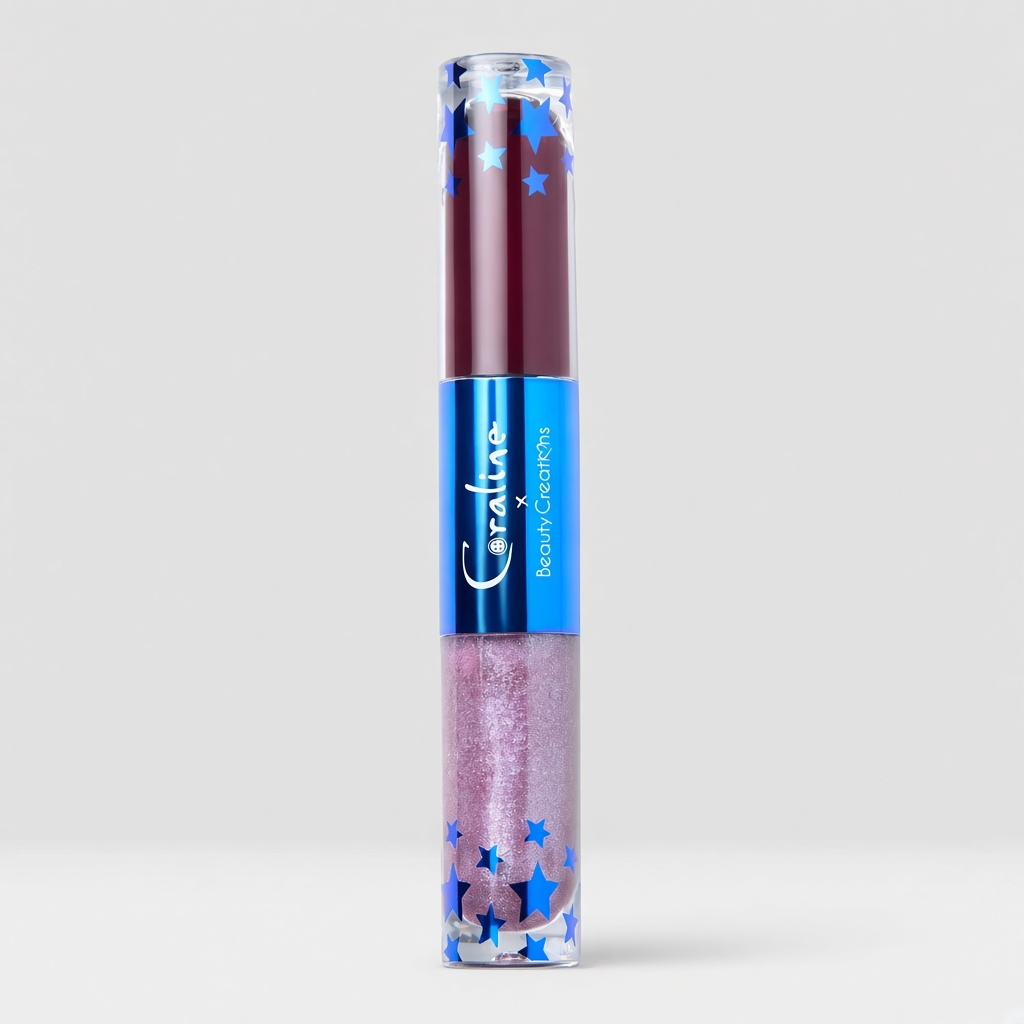
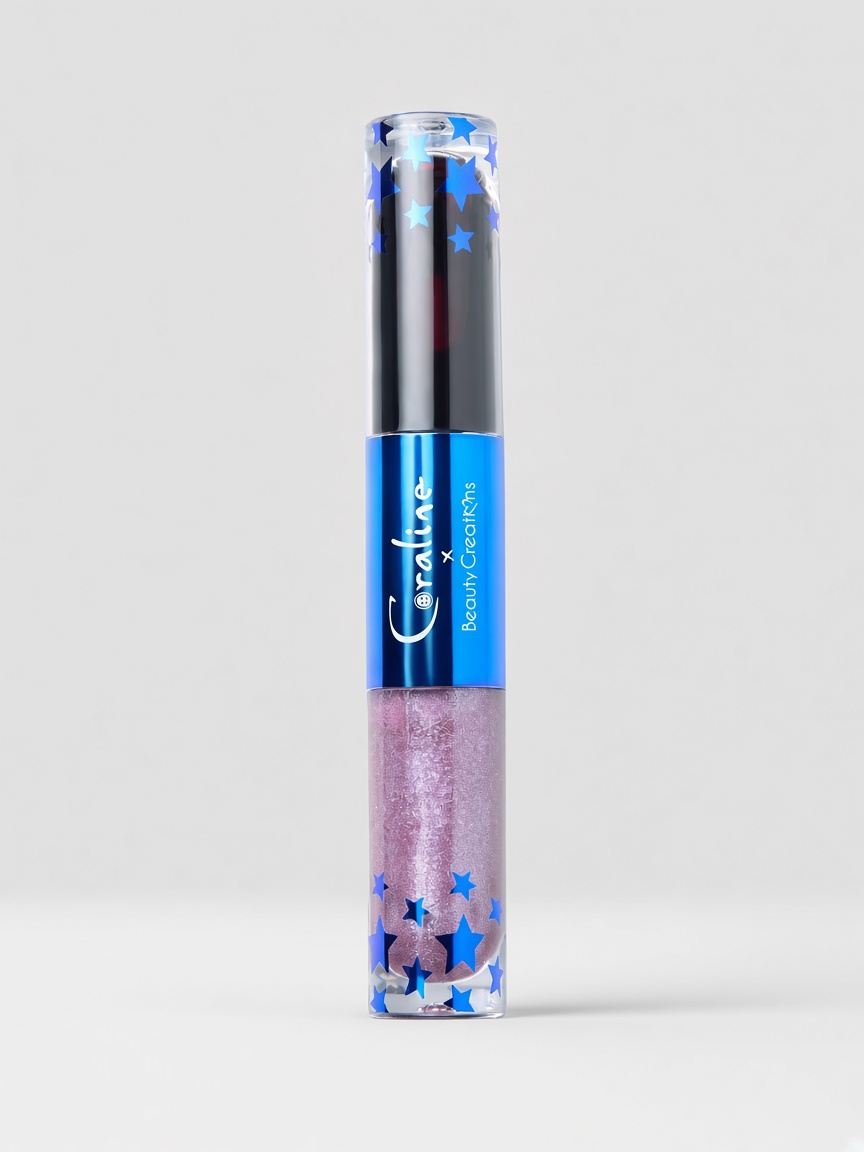
Update lip duo Panama page visuals and hero order.
Add benefit carousel photos, put packaging first in the gallery, and remove the duplicate how-to section.

Changed region(s): [[0.4062, 0.0312, 0.7812, 0.9688]]

diff --git a/peel-off-lip-duo-panama.html b/peel-off-lip-duo-panama.html
@@ -5,7 +5,7 @@
   <meta name="viewport" content="width=device-width, initial-scale=1.0">
   <title>Dúo Peel-Off Lip Stain & Lip Gloss | CompraConfio Panamá — Pago Contra Entrega</title>
   <meta name="description" content="Tinte labial peel-off y gloss de alto brillo en un solo dúo. Color en dos pasos, acabado jugoso y luminoso. Envío gratis y pago contra entrega en Panamá.">
-  <link rel="preload" as="image" href="/images/peel-off-lip-duo/hero-applicators.jpg?v=20261015b" fetchpriority="high">
+  <link rel="preload" as="image" href="/images/peel-off-lip-duo/hero-product.jpg?v=20261015e" fetchpriority="high">
   <link rel="preload" as="style" href="/css/product.css?v=20260811a">
   <link rel="preload" as="style" href="/css/peel-off-lip-duo.css?v=20261014a">
   <link rel="preconnect" href="https://fonts.googleapis.com">
@@ -46,16 +46,16 @@
     <section class="gallery" id="heroSection">
       <div class="gallery-stage" id="galleryTrack">
         <div class="slide">
-          <img class="is-contain" src="/images/peel-off-lip-duo/hero-applicators.jpg?v=20261015b" alt="Dúo labial doble — aplicador de tinte peel-off y gloss de alto brillo" width="800" height="800" loading="eager" decoding="async" fetchpriority="high">
+          <img class="is-contain" src="/images/peel-off-lip-duo/hero-product.jpg?v=20261015e" alt="Dúo Peel-Off Lip Stain &amp; Lip Gloss — empaque Coraline x Beauty Creations con estrellas azules" width="800" height="800" loading="eager" decoding="async" fetchpriority="high">
         </div>
         <div class="slide">
-          <img class="is-contain" src="/images/peel-off-lip-duo/hero-product.jpg?v=20261015b" alt="Dúo Peel-Off Lip Stain &amp; Lip Gloss — empaque con estrellas azules" width="800" height="800" loading="lazy" decoding="async">
+          <img class="is-contain" src="/images/peel-off-lip-duo/hero-applicators.jpg?v=20261015b" alt="Dúo labial doble — aplicador de tinte peel-off y gloss de alto brillo" width="800" height="800" loading="lazy" decoding="async">
         </div>
       </div>
       <div class="gallery-dots" id="galleryDots" aria-hidden="true"></div>
       <div class="gallery-thumbs">
-        <button type="button" class="thumb is-active" aria-label="Aplicadores tinte y gloss"><img src="/images/peel-off-lip-duo/hero-applicators.jpg?v=20261015b" alt="" width="160" height="160" decoding="async"></button>
-        <button type="button" class="thumb" aria-label="Empaque del producto"><img src="/images/peel-off-lip-duo/hero-product.jpg?v=20261015b" alt="" width="160" height="160" loading="lazy" decoding="async"></button>
+        <button type="button" class="thumb is-active" aria-label="Empaque del producto"><img src="/images/peel-off-lip-duo/hero-product.jpg?v=20261015e" alt="" width="160" height="160" decoding="async"></button>
+        <button type="button" class="thumb" aria-label="Aplicadores tinte y gloss"><img src="/images/peel-off-lip-duo/hero-applicators.jpg?v=20261015b" alt="" width="160" height="160" loading="lazy" decoding="async"></button>
       </div>
     </section>
 
@@ -163,22 +163,22 @@
       </button>
       <div class="mech-track" id="reasonTrack">
         <button type="button" class="mech-card is-active">
-          <img src="/images/peel-off-lip-duo/hero-product.jpg?v=20261014a" alt="Tinte peel-off para labios con color duradero" width="800" height="800" loading="lazy" decoding="async">
+          <img src="/images/peel-off-lip-duo/benefit-peel-off-steps.jpg?v=20261015d" alt="Pasos del tinte peel-off: aplicar, retirar película y color final en labios" loading="lazy" decoding="async">
           <h3>Color que permanece</h3>
           <p>El tinte peel-off está diseñado para dejar color en los labios después de retirar la película. Ideal para quienes buscan una alternativa diferente al labial tradicional.</p>
         </button>
         <button type="button" class="mech-card">
-          <img src="/images/peel-off-lip-duo/hero-product.jpg?v=20261014a" alt="Gloss de alto brillo efecto jugoso" width="800" height="800" loading="lazy" decoding="async">
+          <img src="/images/peel-off-lip-duo/benefit-gloss-shimmer.jpg?v=20261015d" alt="Gloss pailletté sobre labios rosados con acabado luminoso" loading="lazy" decoding="async">
           <h3>Brillo intenso y efecto jugoso</h3>
           <p>Completa tu look con un gloss de alto brillo que realza la apariencia de tus labios sin el acabado pegajoso que muchas personas prefieren evitar.</p>
         </button>
         <button type="button" class="mech-card">
-          <img src="/images/peel-off-lip-duo/hero-product.jpg?v=20261014a" alt="Dúo labial tinte y gloss" width="800" height="800" loading="lazy" decoding="async">
+          <img src="/images/peel-off-lip-duo/benefit-duo-showcase.jpg?v=20261015d" alt="Dúo Coraline con tinte peel-off y gloss: producto y resultados en labios" loading="lazy" decoding="async">
           <h3>Dos productos, más posibilidades</h3>
           <p>Usa el tinte para conseguir color o añade el gloss para un acabado más luminoso. Adapta el resultado a tu estilo.</p>
         </button>
         <button type="button" class="mech-card">
-          <img src="/images/peel-off-lip-duo/hero-product.jpg?v=20261014a" alt="Rutina de labios peel-off y gloss" width="800" height="800" loading="lazy" decoding="async">
+          <img src="/images/peel-off-lip-duo/benefit-lifestyle.jpg?v=20261015d" alt="Modelo mostrando el dúo labial y pasos de aplicación peel-off con gloss" loading="lazy" decoding="async">
           <h3>Un toque especial para tu rutina</h3>
           <p>La aplicación peel-off hace que tu rutina de labios sea más entretenida, mientras el gloss aporta ese toque final que destaca.</p>
         </button>
@@ -186,38 +186,6 @@
       <button type="button" class="mech-arr mech-arr--r" id="benefitNext" aria-label="Beneficio siguiente">
         <svg width="18" height="18" viewBox="0 0 18 18" fill="none" aria-hidden="true"><path d="M6 3L12 9L6 15" stroke="currentColor" stroke-width="2" stroke-linecap="round" stroke-linejoin="round"></path></svg>
       </button>
-    </div>
-  </div>
-</section>
-
-<section class="section how-to-section" id="como-usarlo">
-  <div class="shell">
-    <div class="feature-inner how-to-inner">
-      <div class="feature-media feature-media--square">
-        <img class="how-to-demo" src="/images/peel-off-lip-duo/hero-product.jpg?v=20261014a" alt="Cómo usar el dúo peel-off y gloss" width="800" height="800" loading="lazy" decoding="async">
-      </div>
-      <div class="feature-copy">
-        <h2>Tu rutina en 3 pasos</h2>
-        <div class="how-to-steps">
-          <article class="how-to-step">
-            <h3 class="how-to-step__title"><span class="how-to-step__num">01.</span> Aplica el tinte</h3>
-            <p class="how-to-step__text">Distribuye el producto sobre los labios limpios y secos y deja que se seque siguiendo las instrucciones del envase.</p>
-          </article>
-          <article class="how-to-step">
-            <h3 class="how-to-step__title"><span class="how-to-step__num">02.</span> Retira la película</h3>
-            <p class="how-to-step__text">Despega suavemente la capa seca y descubre el color que queda en tus labios.</p>
-          </article>
-          <article class="how-to-step">
-            <h3 class="how-to-step__title"><span class="how-to-step__num">03.</span> Añade el gloss</h3>
-            <p class="how-to-step__text">Dale a tus labios un acabado luminoso, suave y con apariencia jugosa.</p>
-          </article>
-        </div>
-        <p class="how-to-note"><strong>✨ Color + brillo en dos sencillos pasos.</strong></p>
-      </div>
-    </div>
-    <p class="notice notice--center"><strong>🚚 Envío a Panamá · 💵 Paga al recibir tu pedido</strong></p>
-    <div class="section-cta">
-      <button type="button" class="btn-order js-open-order">¡Quiero el mío!</button>
     </div>
   </div>
 </section>
@@ -290,7 +258,7 @@
     </div>
     <div class="order-body">
       <div class="order-product">
-        <img src="/images/peel-off-lip-duo/hero-product.jpg?v=20261014a" alt="" width="72" height="72" style="width:72px;height:72px;object-fit:cover;border-radius:8px;background:#fff" loading="lazy" decoding="async">
+        <img src="/images/peel-off-lip-duo/hero-product.jpg?v=20261015e" alt="" width="72" height="72" style="width:72px;height:72px;object-fit:cover;border-radius:8px;background:#fff" loading="lazy" decoding="async">
         <div>
           <strong>Dúo Peel-Off Lip Stain &amp; Lip Gloss</strong>
           <span>30 días Garantía · Pago al recibir</span>
